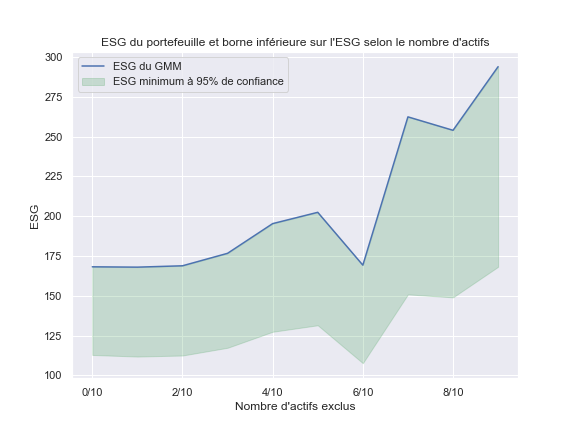
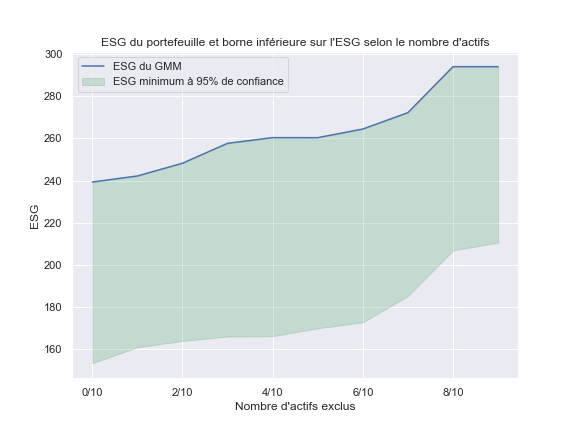
esg exclusion

diff --git a/Tester.py b/Tester.py
@@ -261,7 +261,7 @@ class Tester:
 
         return(spearmans)
     
-    def sharpe_sector_exclusion(self, sharpe = True):
+    def sharpe_sector_exclusion(self, sharpe = True, esg_bound = False):
         
         complete_sectors = self.sectors_list.copy()
         complete_sectors.loc[-1] = ['RIFA', 'RISK Risk-Free Asset']
@@ -273,6 +273,8 @@ class Tester:
         #% Sharpes with exclusion
         if sharpe:
             sharpes_t = [[] for i in range(p)]
+            if esg_bound:
+                ESGs = [[] for i in range(p)]
         else:
             weights_agencies = [{} for i in range(p)]
             assets_weights_agencies = [{} for i in range(p)]
@@ -331,6 +333,8 @@ class Tester:
                 weights_t = xpf.tangent_portfolio()
                 if sharpe:
                     sharpes_t[i].append(xpf.get_sharpe(weights_t))
+                    if esg_bound:
+                        ESGs[i].append(xpf.get_ESG(weights_t))
                 else:                             
                     for weight, ticker in zip(weights_t,xpf.tickers):
                         if ticker not in assets_weights:
@@ -348,6 +352,10 @@ class Tester:
                 if i == (p-1):
                     save = True
                 xpf.plot_sharpe_exclusion(sharpes_t[i], range(len(sharpes_t[i])), save, agency + ', ' + str(len(sharpes_t[i])) + ' actifs ESG-efficients', eng = False)   
+            if esg_bound:
+                save = True
+                xpf.new_figure()
+                xpf.plot_esg_exclusions(ESGs, range(len(ESGs[0])), save, eng = False, gaussian = True) 
                 
         else:
             i = 0 

diff --git a/Full_test.py b/Full_test.py
@@ -40,4 +40,4 @@ Te.combine_TV_lists()
 
 #%%
 Te.cluster_uncertainty()
-#Te.sharpe_sector_exclusion()
+Te.sharpe_sector_exclusion(esg_bound = True)
